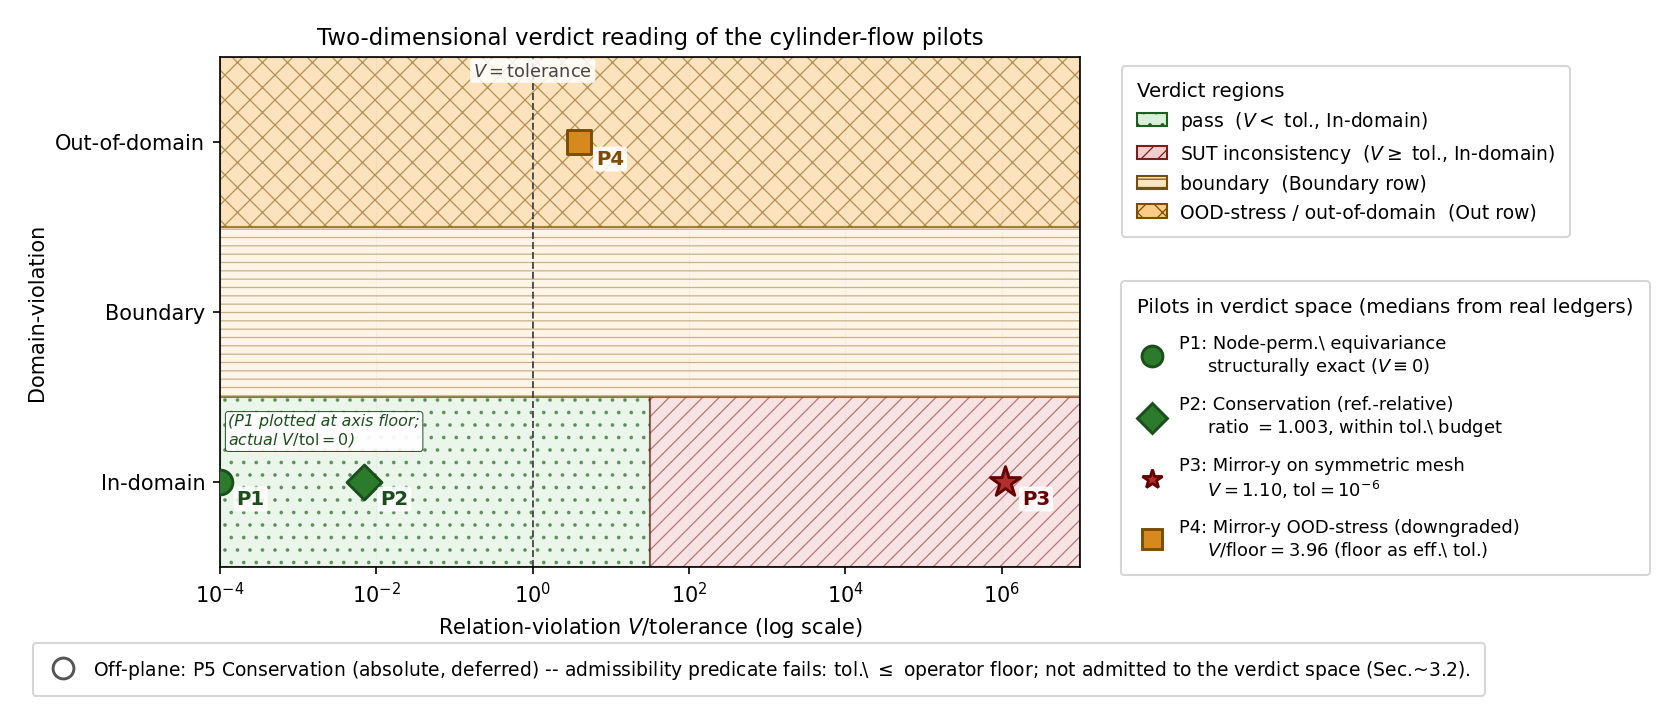
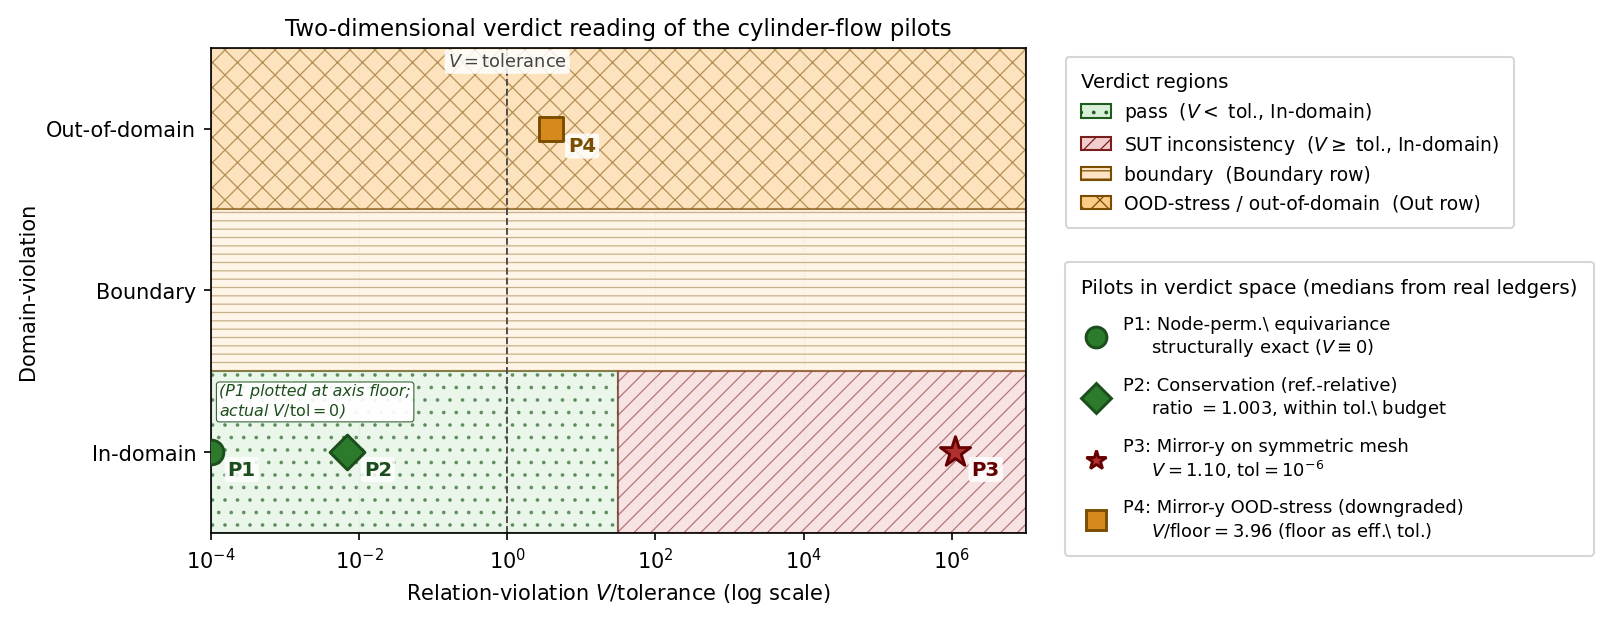
Fig.~3: move P5 out of the figure into the caption
The off-plane P5 callout strip was a patch to flag a fifth MR (absolute
conservation) that the figure's verdict space cannot host. The cleaner
rendering is to keep the figure confined to admitted relations and
acknowledge the omission in the caption.

- Drop the P5 callout strip (fig.legend with the open-circle Line2D) and the
  bottom-margin adjustment that was reserving space for it.
- Drop the P5-related Python variables (p5_key / p5_label / p5_note) from
  fig_3_verdict_2d.py and replace them with a comment explaining the absence.
- Tighten figure size from 11.4x5.0 to 10.8x4.2 since the bottom callout no
  longer reserves vertical space.
- main.tex caption: replace the P5 sentence with a single closing sentence
  noting that absolute conservation is not plotted because its admissibility
  predicate (Sec. 3.2 rubric) fails -- the absolute tolerance does not
  dominate the P1 operator floor calibrated in Sec. 5.5 -- so the rubric
  never admits it into the verdict space.

The figure now shows exactly the four pilots the surrounding text already
calls out ("Figure~\ref{fig:verdict-2d} plots the four cylinder-flow pilots
in this verdict space..."). Legend mapping is one-to-one P1..P4.

Compile clean (0 errors / 0 overfull); 105 tests + 253 subtests pass.

Changed region(s): [[0.031, 0.0305, 0.9926, 0.9759], [0.0, 0.305, 0.031, 0.61]]

diff --git a/paper/ist-submission/figures/src/fig_3_verdict_2d.py b/paper/ist-submission/figures/src/fig_3_verdict_2d.py
@@ -111,14 +111,14 @@ points = [
      f"$V/\\mathrm{{floor}} = {my_v_over_eff_tol:.2f}$ (floor as eff.\\ tol.)",
      my_v_over_eff_tol, Y_OUT, "s", "#d68a1e", "#7a4d00"),
 ]
-# P5 is "admissibility-failed", does NOT enter the verdict plane; rendered
-# as an off-plane callout to the right of the axes (see legend).
-p5_key = "P5"
-p5_label = "Conservation (absolute, deferred)"
-p5_note = "admissibility predicate fails: tol.\\ $\\leq$ operator floor"
+# Absolute conservation (a fifth MR considered in the manuscript) is not
+# plotted at all: its admissibility predicate fails because the absolute
+# tolerance does not dominate the P1 operator floor (Sec. 3.2 / Sec. 5.5),
+# so it never enters the verdict space. The figure caption flags this
+# absence; the figure itself stays confined to admitted relations only.
 
 # ---------------------------------------------------------------------------
-fig = plt.figure(figsize=(11.4, 5.0))
+fig = plt.figure(figsize=(10.8, 4.2))
 gs = fig.add_gridspec(2, 2, width_ratios=[1.55, 0.78],
                       height_ratios=[1.0, 1.45], wspace=0.05, hspace=0.05)
 ax = fig.add_subplot(gs[:, 0])
@@ -229,33 +229,11 @@ leg_pilot = ax_leg_bot.legend(handles=pilot_handles, loc="upper left",
                               borderpad=0.9)
 leg_pilot._legend_box.align = "left"
 
-# ---------------------------------------------------------------------------
-# Off-plane callout for P5: rendered as a single-row figure-level legend
-# below the main axes, physically detached from the verdict plane and from
-# the pilot legend, so legend entries map one-to-one onto markers in the
-# main plot.
-# ---------------------------------------------------------------------------
-p5_handle = Line2D(
-    [0], [0], marker="o", color="none",
-    markerfacecolor="white", markeredgecolor="#555",
-    markersize=10, markeredgewidth=1.4, linestyle=":",
-    label=(f"Off-plane: {p5_key} {p5_label} -- {p5_note}; "
-           "not admitted to the verdict space (Sec.~3.2)."),
-)
-# Reserve vertical space at the bottom of the figure so the callout does
-# not collide with the x-axis 10^k tick labels of the log-scaled main axes.
-fig.subplots_adjust(bottom=0.20)
-fig.legend(handles=[p5_handle], loc="lower left",
-           bbox_to_anchor=(0.01, 0.015),
-           frameon=True, fontsize=9, handlelength=1.6,
-           handletextpad=0.8, borderpad=0.8)
-
 OUT_PDF.parent.mkdir(parents=True, exist_ok=True)
-fig.savefig(OUT_PDF, bbox_inches="tight", pad_inches=0.18)
-fig.savefig(OUT_PNG, bbox_inches="tight", dpi=150, pad_inches=0.18)
+fig.savefig(OUT_PDF, bbox_inches="tight", pad_inches=0.12)
+fig.savefig(OUT_PNG, bbox_inches="tight", dpi=150, pad_inches=0.12)
 print(f"wrote {OUT_PDF}")
 print(f"wrote {OUT_PNG}")
 print("\nplotted coordinates (V/tolerance, y_bin):")
 for (key, label, note, vt, y, *_rest) in points:
     print(f"  {key}  V/tol={vt:.4g}  y={y}  {label}")
-print(f"  {p5_key}  (off-plane callout)  {p5_label}")

diff --git a/paper/ist-submission/main.tex b/paper/ist-submission/main.tex
@@ -335,7 +335,7 @@ In the present study the relation-violation axis is quantitative --- mirror-y re
 \begin{figure}[t]
 \centering
 \includegraphics[width=0.92\linewidth]{figures/fig_3_verdict_2d.pdf}
-\caption{Two-dimensional verdict reading of the cylinder-flow pilots. Horizontal axis: relation-violation $V/\mathrm{tolerance}$ on a log scale, where tolerance is the per-MR verdict threshold (machine-precision floor for an exact relation; the reference-relative regression threshold for conservation; the mapping-error floor when an approximate relation has been downgraded to an OOD-stress probe, as for P4). Vertical axis: domain-violation as a three-level categorical bin (In-domain, Boundary, Out-of-domain), kept qualitative because, as Sec.~\ref{subsec:verdicts} notes, it is so far only partially operationalized. The dashed line at $V/\mathrm{tolerance} = 1$ is the pass/fail border for an admissible relation. Coordinates (medians from the metric ledgers; full numbers in Sec.~\ref{subsec:within-sut-pilot} and Table~\ref{tab:mr-card-verdict}): P1 node-permutation equivariance $V = 0$ exactly (structurally exact, plotted at the log-axis floor); P2 conservation (reference-relative) ratio $= 1.005$, so $V/\mathrm{tolerance} \approx 0.01$ --- two orders of magnitude above P1 yet still well inside pass; P3 mirror-y on the synthetic symmetric mesh, where the rubric admits the exact relation, $V = 1.10$ against tolerance $10^{-6}$, $V/\mathrm{tolerance} \approx 1.1\times 10^{6}$ --- the SUT-inconsistency region, which is what removes the out-of-relation-domain objection to the mirror-y finding; P4 mirror-y OOD-stress (downgraded), $V/\mathrm{floor} = 3.96$ with the mapping-error floor as effective tolerance, sitting in the Out-of-domain row; P5 absolute conservation is off-plane because its admissibility predicate fails (the absolute tolerance does not dominate the P1 operator floor calibrated in Sec.~\ref{subsec:operator-floor-sweep}), so it never enters the verdict space.}
+\caption{Two-dimensional verdict reading of the cylinder-flow pilots. Horizontal axis: relation-violation $V/\mathrm{tolerance}$ on a log scale, where tolerance is the per-MR verdict threshold (machine-precision floor for an exact relation; the reference-relative regression threshold for conservation; the mapping-error floor when an approximate relation has been downgraded to an OOD-stress probe, as for P4). Vertical axis: domain-violation as a three-level categorical bin (In-domain, Boundary, Out-of-domain), kept qualitative because, as Sec.~\ref{subsec:verdicts} notes, it is so far only partially operationalized. The dashed line at $V/\mathrm{tolerance} = 1$ is the pass/fail border for an admissible relation. Coordinates (medians from the metric ledgers; full numbers in Sec.~\ref{subsec:within-sut-pilot} and Table~\ref{tab:mr-card-verdict}): P1 node-permutation equivariance $V = 0$ exactly (structurally exact, plotted at the log-axis floor); P2 conservation (reference-relative) ratio $= 1.005$, so $V/\mathrm{tolerance} \approx 0.01$ --- two orders of magnitude above P1 yet still well inside pass; P3 mirror-y on the synthetic symmetric mesh, where the rubric admits the exact relation, $V = 1.10$ against tolerance $10^{-6}$, $V/\mathrm{tolerance} \approx 1.1\times 10^{6}$ --- the SUT-inconsistency region, which is what removes the out-of-relation-domain objection to the mirror-y finding; P4 mirror-y OOD-stress (downgraded), $V/\mathrm{floor} = 3.96$ with the mapping-error floor as effective tolerance, sitting in the Out-of-domain row. Absolute conservation is not plotted: its admissibility predicate (Sec.~\ref{subsec:rubric}) fails because the absolute tolerance does not dominate the P1 operator floor calibrated in Sec.~\ref{subsec:operator-floor-sweep}, so the rubric never admits it into the verdict space.}
 \label{fig:verdict-2d}
 \end{figure}
 